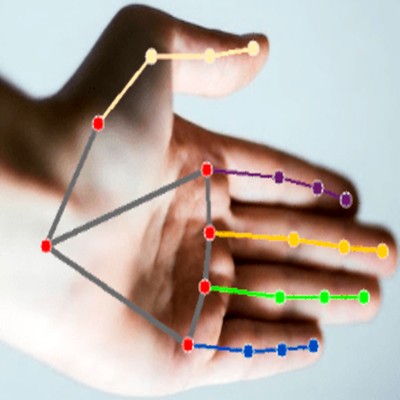
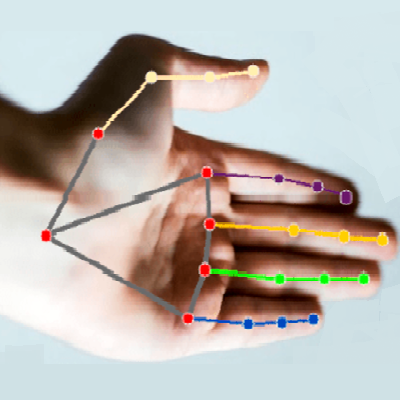
Fixed Motion Tracking kind of? Also fixed font of text on MP

diff --git a/templates/MotionTracking.html b/templates/MotionTracking.html
@@ -1,23 +1,16 @@
 <!DOCTYPE html>
-<!--[if lt IE 7]>      <html class="no-js lt-ie9 lt-ie8 lt-ie7"> <![endif]-->
-<!--[if IE 7]>         <html class="no-js lt-ie9 lt-ie8"> <![endif]-->
-<!--[if IE 8]>         <html class="no-js lt-ie9"> <![endif]-->
-<!--[if gt IE 8]><!--> <html class="no-js"> <!--<![endif]-->
+<html lang="en">
 <head>
-    <meta charset="utf-8">
+    <meta charset="UTF-8">
     <meta http-equiv="X-UA-Compatible" content="IE=edge">
+    <meta name="viewport" content="width=device-width, initial-scale=1.0">
     <title>Motion Tracker</title>
     <meta name="description" content="An app to track your hands through the webcam.">
-    <meta name="viewport" content="width=device-width, initial-scale=1">
 
     <link rel="icon" type="image/x-icon" href="/static/assets/favicon.ico"/>
-    
-    <link rel="stylesheet" href="{{ url_for('static', filename='css/normalize.css')}}">
-    <link rel="stylesheet" href="{{ url_for('static', filename='css/font-awesome.css')}}">
     <link rel="stylesheet" href="{{ url_for('static', filename='css/bootstrap.min.css')}}">
     <link rel="stylesheet" href="{{ url_for('static', filename='css/templatemo-style.css')}}">
 
-    <script src="/static/js/vendor/modernizr-2.6.2.min.js"></script>
     <script src="/static/js/vendor/jquery-1.10.2.min.js"></script>
     <script src="/static/js/min/plugins.min.js"></script>
     <script src="/static/js/min/main.min.js"></script>
@@ -27,122 +20,93 @@
     <script src="https://cdn.jsdelivr.net/npm/@mediapipe/drawing_utils/drawing_utils.js" crossorigin="anonymous"></script>
     <script src="https://cdn.jsdelivr.net/npm/@mediapipe/hands/hands.js" crossorigin="anonymous"></script>
     <script src="https://cdn.jsdelivr.net/npm/@mediapipe/face_mesh/face_mesh.js" crossorigin="anonymous"></script>
-</head>
-<body style="background-color:rgb(40,50,55);">
-  <!--[if lt IE 7]>
-      <p class="browsehappy">You are using an <strong>outdated</strong> browser. Please <a href="http://browsehappy.com/">upgrade your browser</a> to improve your experience.</p>
-  <![endif]-->
-  
-  <div class="home-corner">
-    <a href="/" class="home-button">Home</a>
-  </div>
 
-  <div class="motion-tracking-display text-center" id="top">
-      <div class="banner-overlay"></div>
-      
-      <div class="project-text">
-          <h2>Hand Tracking</h2>
-          <!-- OLD WORKING CODE THROUGH PYTHON
-            <div class="video"><img src="{{ url_for('MotionTracking') }}" width="60%"></div> -->
-
-          <!-- NEW CODE -->
-          <video class="input_video"></video>
-          <canvas class="output_canvas" width="1280px" height="720px"></canvas>
-      </div>
-  </div>
-
-  <script type="module">
-      const videoElement = document.getElementsByClassName('input_video')[0];
-  
-      videoElement.style.display = "none";
-  
-      const canvasElement = document.getElementsByClassName('output_canvas')[0];
-      const canvasCtx = canvasElement.getContext('2d');
-  
-      // const canvasElement2 = document.getElementsByClassName('output_canvas2')[0];
-      // const canvasCtx2 = canvasElement2.getContext('2d');
-      
-      function onResults(results) {
-        canvasCtx.save();
-        canvasCtx.clearRect(0, 0, canvasElement.width, canvasElement.height);
-        canvasCtx.translate(1280, 0);
-        canvasCtx.scale(-1,1);
-        canvasCtx.drawImage(
-            results.image, 0, 0, canvasElement.width, canvasElement.height);
-        if (results.multiHandLandmarks) {
-          for (const landmarks of results.multiHandLandmarks) {
-            drawConnectors(canvasCtx, landmarks, HAND_CONNECTIONS,
-                            {color: '#00FF00', lineWidth: 5});
-            drawLandmarks(canvasCtx, landmarks, {color: '#FF0000', lineWidth: 2});
-          }
+    <style>
+        body {
+            background-color: rgb(40, 50, 55);
+            margin: 0;
+            display: flex;
+            justify-content: center;
+            align-items: center;
+            height: 100vh;
         }
-        canvasCtx.restore();
-      }
-  
-      // function onResults_2(results) {
-      //   canvasCtx2.save();
-      //   canvasCtx2.clearRect(0, 0, canvasElement2.width, canvasElement2.height);
-      //   canvasCtx2.translate(1280, 0);
-      //   canvasCtx2.scale(-1,1);
-      //   canvasCtx2.drawImage(
-      //       results.image, 0, 0, canvasElement2.width, canvasElement2.height);
-      //   if (results.multiFaceLandmarks) {
-      //         for (const landmarks of results.multiFaceLandmarks) {
-      //         drawConnectors(canvasCtx2, landmarks, FACEMESH_TESSELATION,
-      //                         {color: '#C0C0C070', lineWidth: 1});
-      //         drawConnectors(canvasCtx2, landmarks, FACEMESH_RIGHT_EYE, {color: '#FF3030'});
-      //         drawConnectors(canvasCtx2, landmarks, FACEMESH_RIGHT_EYEBROW, {color: '#FF3030'});
-      //         drawConnectors(canvasCtx2, landmarks, FACEMESH_RIGHT_IRIS, {color: '#FF3030'});
-      //         drawConnectors(canvasCtx2, landmarks, FACEMESH_LEFT_EYE, {color: '#30FF30'});
-      //         drawConnectors(canvasCtx2, landmarks, FACEMESH_LEFT_EYEBROW, {color: '#30FF30'});
-      //         drawConnectors(canvasCtx2, landmarks, FACEMESH_LEFT_IRIS, {color: '#30FF30'});
-      //         drawConnectors(canvasCtx2, landmarks, FACEMESH_FACE_OVAL, {color: '#E0E0E0'});
-      //         drawConnectors(canvasCtx2, landmarks, FACEMESH_LIPS, {color: '#E0E0E0'});
-      //         }
-      //     }
-      //   canvasCtx2.restore();
-      // }
-      
-      const hands = new Hands({locateFile: (file) => {
-          return `https://cdn.jsdelivr.net/npm/@mediapipe/hands/${file}`;
-      }});
-      hands.setOptions({
-          maxNumHands: 2,
-          modelComplexity: 1,
-          minDetectionConfidence: 0.5,
-          minTrackingConfidence: 0.5
-      });
-      hands.onResults(onResults);
-  
-      // const faceMesh = new FaceMesh({locateFile: (file) => {
-      //     return `https://cdn.jsdelivr.net/npm/@mediapipe/face_mesh/${file}`;
-      // }});
-      // faceMesh.setOptions({
-      //     maxNumFaces: 1,
-      //     refineLandmarks: true,
-      //     minDetectionConfidence: 0.5,
-      //     minTrackingConfidence: 0.5
-      // });
-      // faceMesh.onResults(onResults_2);
-  
-      const camera = new Camera(videoElement, {
-        onFrame: async () => {
-          await hands.send({image: videoElement}); 
-        },
-        width: 1280,
-        height: 720
-      });
-  
-      // const camera2 = new Camera(videoElement, {
-      //   onFrame: async () => {
-      //     await faceMesh.send({image: videoElement}); 
-      //   },
-      //   width: 1280,
-      //   height: 720
-      // });
-  
-      camera.start();
-      // camera2.start();
-  </script>
+
+        .home-corner {
+            position: fixed;
+            top: 10px;
+            left: 10px;
+        }
+
+        .motion-tracking-display {
+            position: relative;
+            width: 80%;
+            max-width: 1280px;
+        }
+
+        .input_video {
+            display: none;
+        }
+
+        .output_canvas {
+            width: 100%;
+            height: auto;
+        }
+    </style>
+</head>
+<body>
+    <div class="home-corner">
+        <a href="/" class="btn btn-primary">Home</a>
+    </div>
+
+    <div class="motion-tracking-display">
+        <video class="input_video"></video>
+        <canvas class="output_canvas" width="1280" height="720"></canvas>
+    </div>
+
+    <script type="module">
+        const videoElement = document.querySelector('.input_video');
+        const canvasElement = document.querySelector('.output_canvas');
+        const canvasCtx = canvasElement.getContext('2d');
+
+        function onResults(results) {
+            canvasCtx.save();
+            canvasCtx.clearRect(0, 0, canvasElement.width, canvasElement.height);
+            canvasCtx.translate(1280, 0);
+            canvasCtx.scale(-1, 1);
+            canvasCtx.drawImage(results.image, 0, 0, canvasElement.width, canvasElement.height);
+
+            if (results.multiHandLandmarks) {
+                for (const landmarks of results.multiHandLandmarks) {
+                    drawConnectors(canvasCtx, landmarks, HAND_CONNECTIONS, {color: '#00FF00', lineWidth: 5});
+                    drawLandmarks(canvasCtx, landmarks, {color: '#FF0000', lineWidth: 2});
+                }
+            }
+
+            canvasCtx.restore();
+        }
+
+        const hands = new Hands({locateFile: (file) => {
+            return `https://cdn.jsdelivr.net/npm/@mediapipe/hands/${file}`;
+        }});
+
+        hands.setOptions({
+            maxNumHands: 2,
+            modelComplexity: 1,
+            minDetectionConfidence: 0.5,
+            minTrackingConfidence: 0.5
+        });
+
+        hands.onResults(onResults);
+
+        const camera = new Camera(videoElement, {
+            onFrame: async () => {
+                await hands.send({image: videoElement});
+            },
+            width: 1280,
+            height: 720
+        });
+
+        camera.start();
+    </script>
 </body>
 </html>

diff --git a/static/css/MonkeysPaw.css b/static/css/MonkeysPaw.css
@@ -56,7 +56,8 @@ body {
 .wish-text {
   font-size: 24px;
   margin-right: 10px;
-  color: #000000
+  color: #000000;
+  font-family: 'Pacifico', cursive;
 }
 
 .wish-input {
